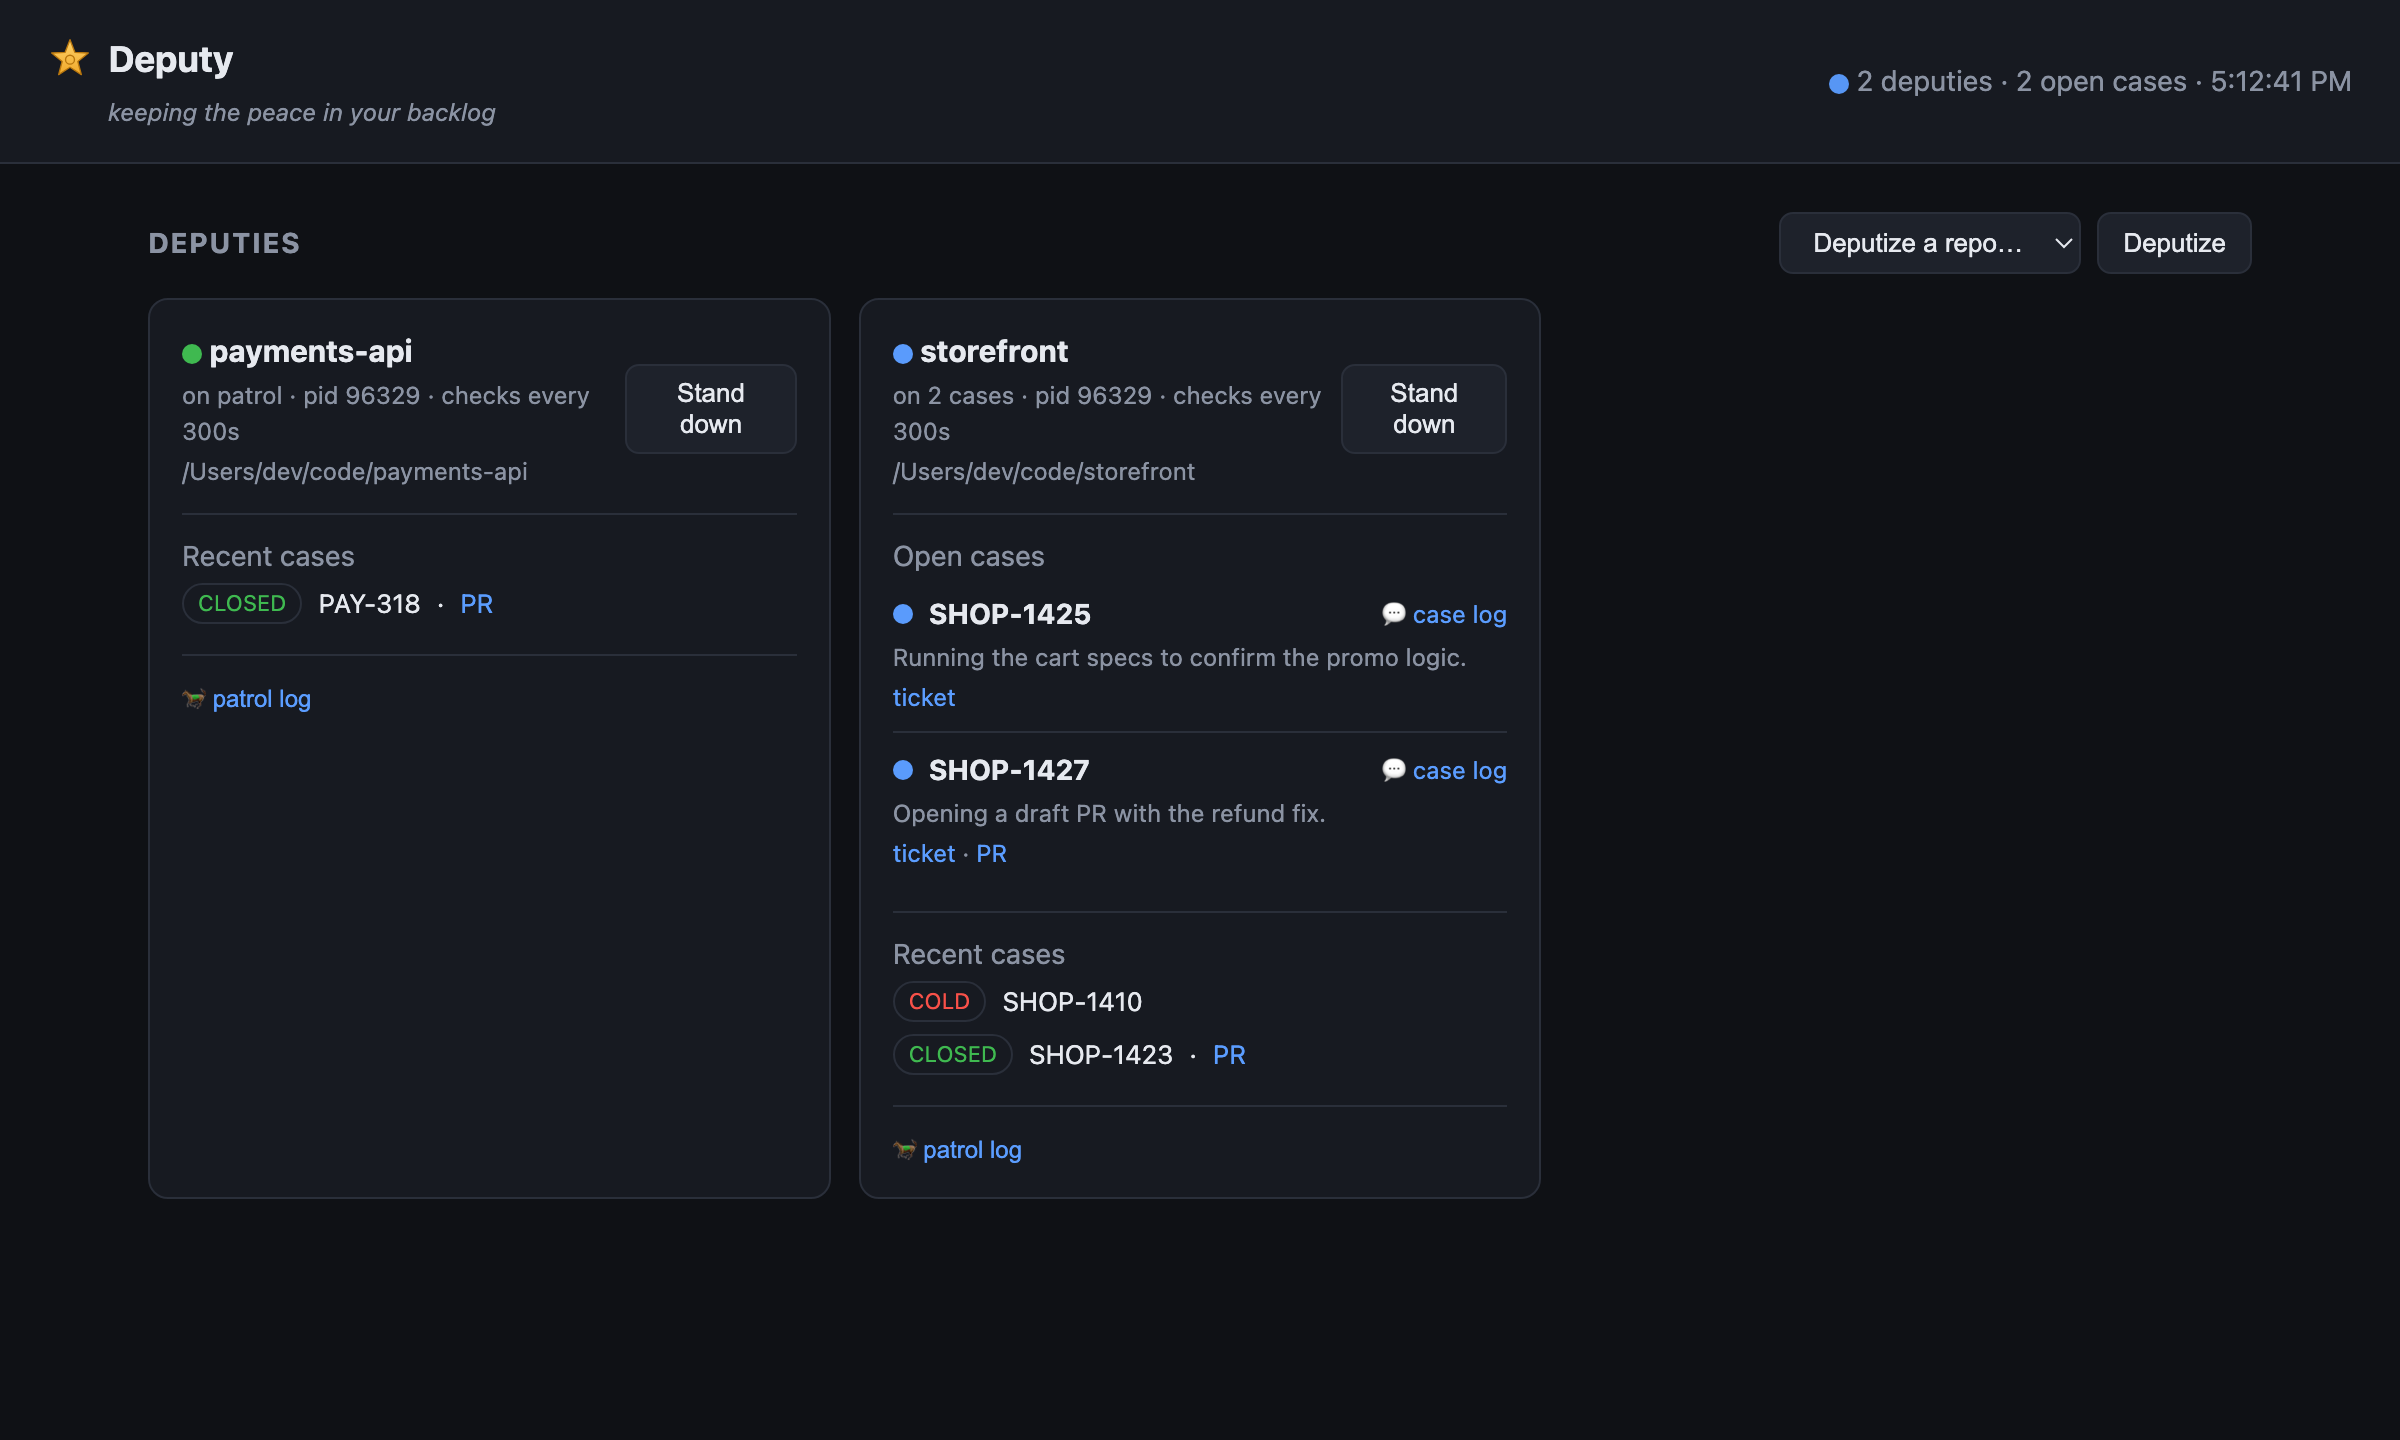
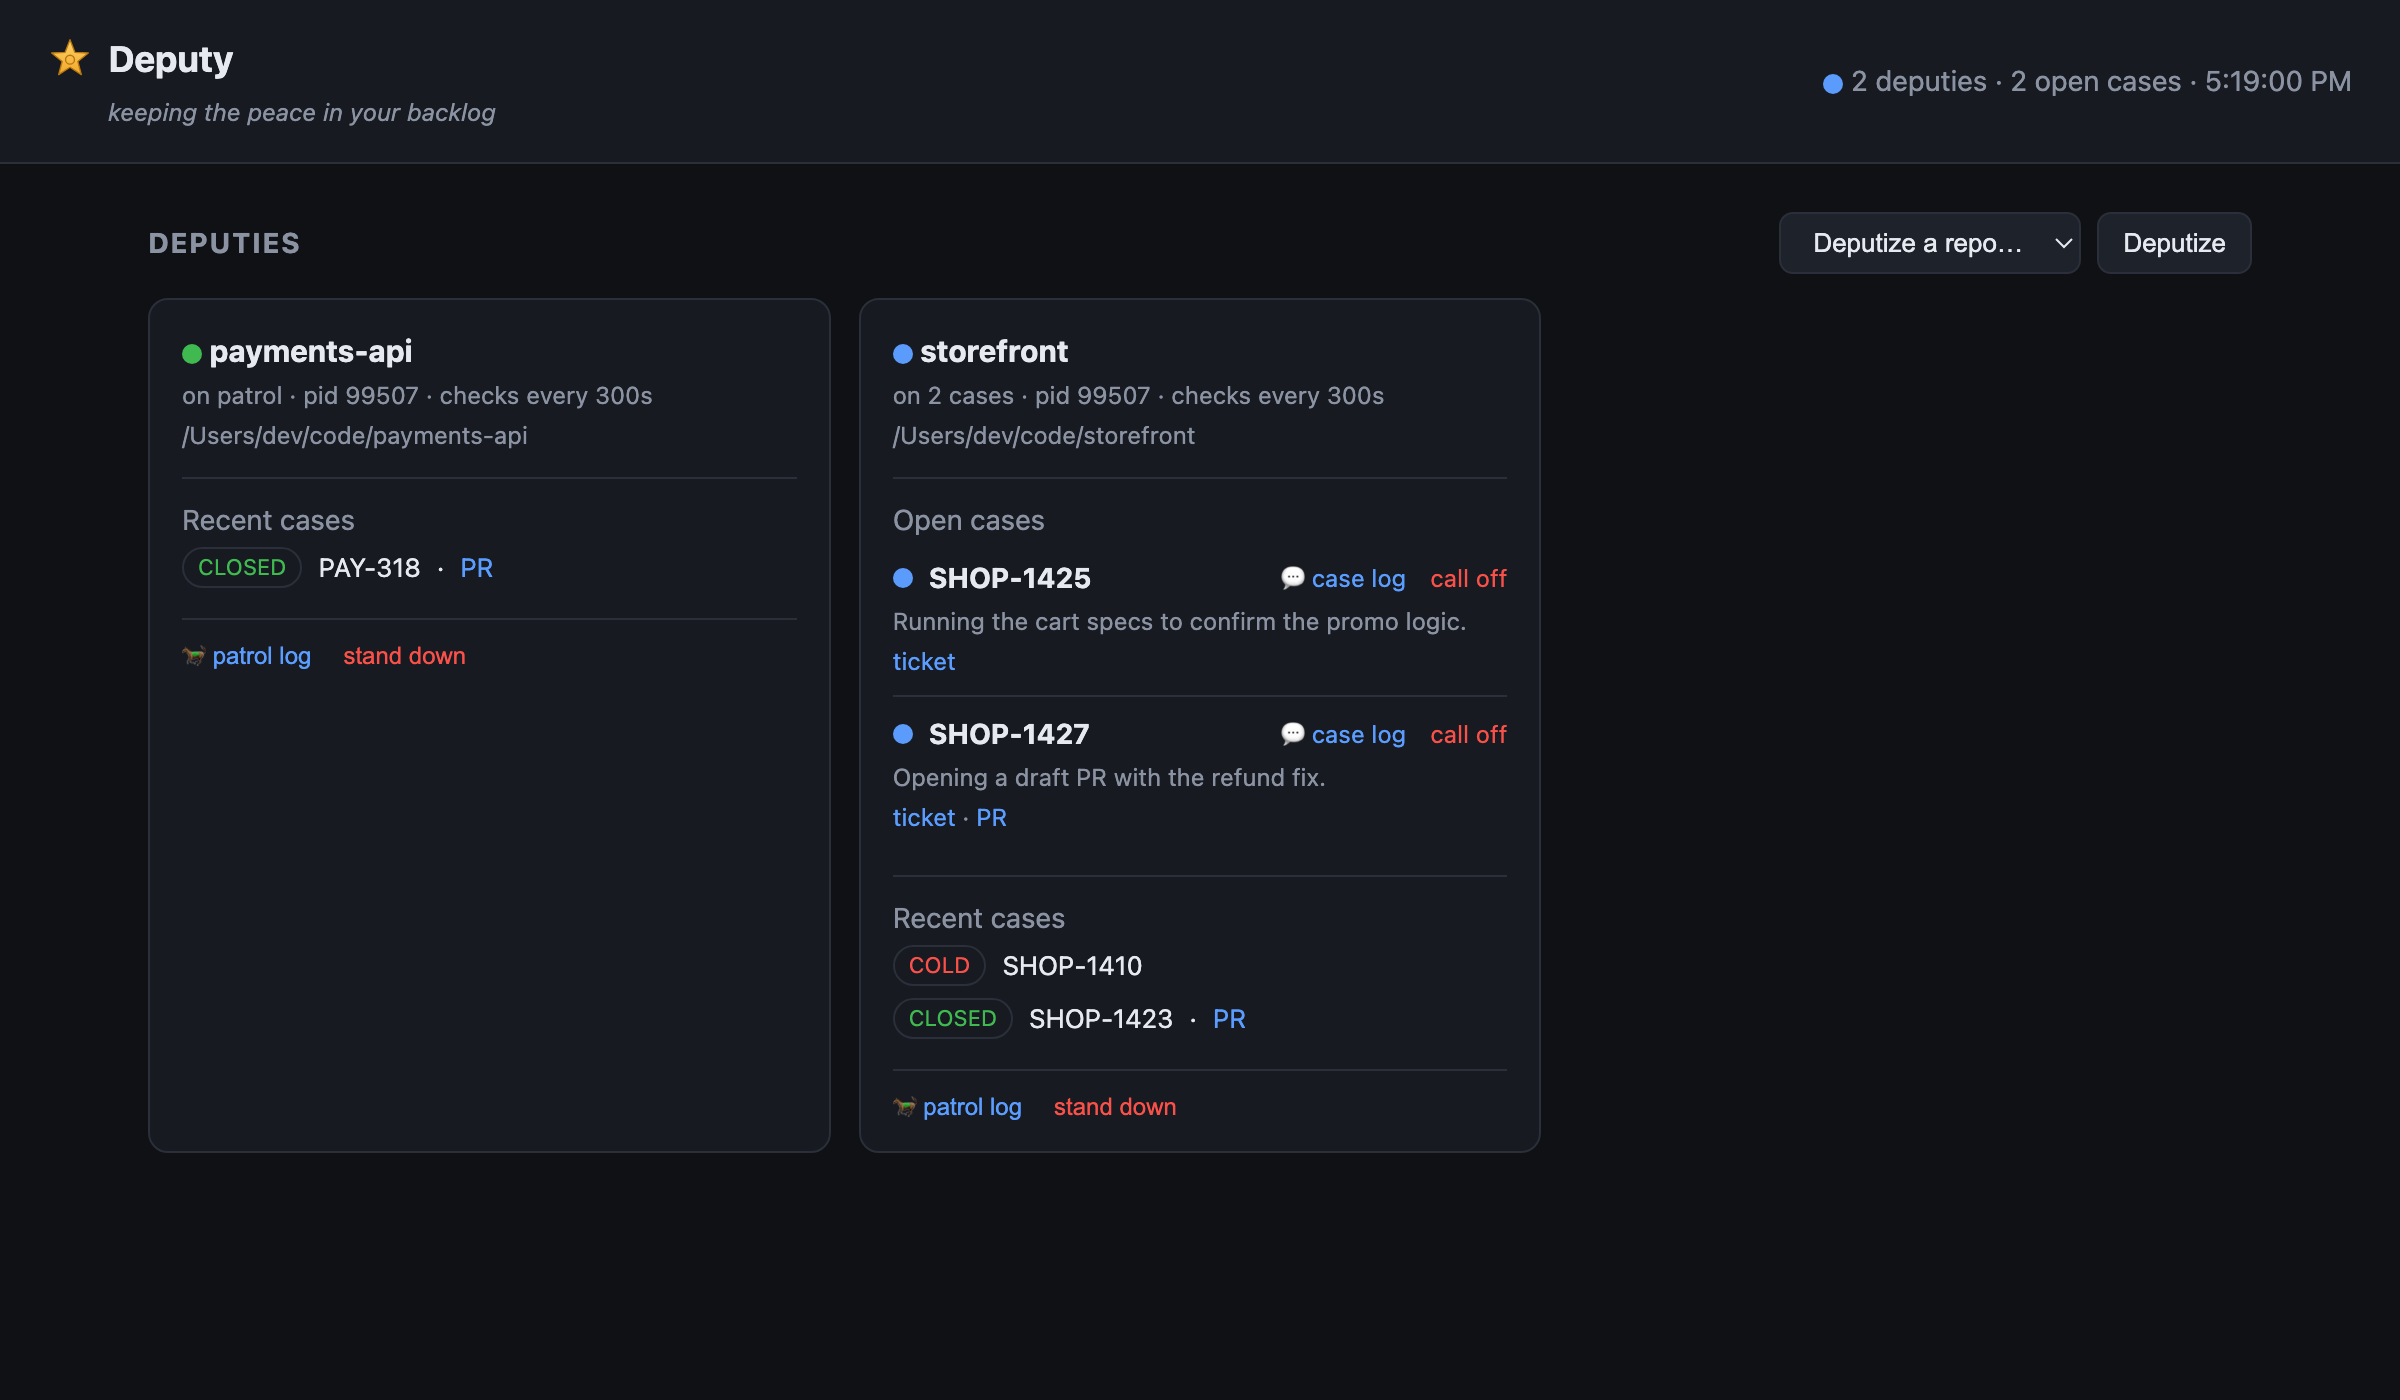
feat(ui): per-case "call off" (stop-ticket) + move "stand down" to footer; README
- Each open case gets a red "call off" action (POST /api/stop-case -> stop-ticket).
- Deputy "stand down" moved out of the header into the footer row beside patrol log.
- README: fix stale wording, document live sessions / endpoints / call-off,
  prerequisites + key config knobs; refreshed screenshot.

diff --git a/server/public/app.js b/server/public/app.js
@@ -24,12 +24,18 @@ function caseRow(c) {
   ].filter(Boolean).join(' · ');
   row.innerHTML = `
     <div class="case-head"><span class="dot busy"></span> <b>${esc(c.ticket)}</b>
-      <span class="linklike">💬 case log</span></div>
+      <span class="case-actions"><span class="linklike">💬 case log</span><span class="linklike danger" data-stop>call off</span></span></div>
     <div class="sub">${esc(c.phase || '').slice(0, 160)}</div>
     ${links ? `<div class="sub">${links}</div>` : ''}`;
   row.style.cursor = 'pointer';
   row.onclick = () => openLog({ ticket: c.ticket }, `${c.ticket} · case log`);
   row.querySelectorAll('a').forEach((a) => a.addEventListener('click', (e) => e.stopPropagation()));
+  row.querySelector('[data-stop]').onclick = async (e) => {
+    e.stopPropagation();
+    if (!confirm(`Call off ${c.ticket}? (cancels the agent and drops its worktree)`)) return;
+    await api('/api/stop-case', { method: 'POST', headers: { 'Content-Type': 'application/json' }, body: JSON.stringify({ ticket: c.ticket }) });
+    refresh();
+  };
   return row;
 }
 
@@ -48,14 +54,6 @@ function renderDeputies(daemons, orphans) {
         <div class="sub">${status}${d.running ? ` · pid ${d.pid} · checks every ${d.interval}s` : ''}</div>
         <div class="sub">${esc(d.repoDir || '')}</div>
       </div>`));
-    const actions = el('div');
-    if (d.running) {
-      const stop = el('button', null, 'Stand down');
-      stop.onclick = async () => { if (!confirm(`Stand ${d.project} down?`)) return; stop.disabled = true; await api('/api/stop', { method: 'POST', headers: { 'Content-Type': 'application/json' }, body: JSON.stringify({ project: d.project }) }); refresh(); };
-      actions.append(stop);
-    }
-    card.querySelector('.row').append(actions);
-
     if (cases.length) {
       const sec = el('div', 'recent'); sec.append(el('div', 'muted', 'Open cases'));
       for (const c of cases) sec.append(caseRow(c));
@@ -71,10 +69,16 @@ function renderDeputies(daemons, orphans) {
       }
       card.append(sec);
     }
-    const footer = el('div', 'recent');
+    const footer = el('div', 'recent actions-row');
     const pl = el('button', 'linklike', '🐎 patrol log');
     pl.onclick = () => openLog({ daemon: d.project }, `${d.project} · patrol log`);
-    footer.append(pl); card.append(footer);
+    footer.append(pl);
+    if (d.running) {
+      const stop = el('button', 'linklike danger', 'stand down');
+      stop.onclick = async () => { if (!confirm(`Stand ${d.project} down?`)) return; await api('/api/stop', { method: 'POST', headers: { 'Content-Type': 'application/json' }, body: JSON.stringify({ project: d.project }) }); refresh(); };
+      footer.append(stop);
+    }
+    card.append(footer);
     wrap.append(card);
   }
   if (orphans?.length) {

diff --git a/server/public/styles.css b/server/public/styles.css
@@ -39,7 +39,9 @@ section { margin-bottom: 32px; }
 .case:last-child { border-bottom: none; }
 .case-head { display: flex; align-items: center; gap: 8px; }
 .case-head b { font-size: 14px; }
-.case-head .linklike { margin-left: auto; }
+.case-head .case-actions { margin-left: auto; display: flex; gap: 12px; }
+.danger, .linklike.danger { color: var(--fail); }
+.actions-row { display: flex; gap: 16px; align-items: center; }
 .badge { font-size: 11px; padding: 1px 7px; border-radius: 999px; border: 1px solid var(--border); }
 .badge.ok { color: var(--ok); } .badge.fail { color: var(--fail); } .badge.warn { color: var(--warn); }
 

diff --git a/README.md b/README.md
@@ -74,17 +74,16 @@ bin/daemon continue <TICKET> "also handle the empty state"   # follow-up on its 
 bin/daemon stop-ticket <TICKET>                              # cancel one in-flight job
 ```
 
-## Follow-ups & CI fixes (no comments)
+## Talking to deputies (no PR/Jira comments)
 
-Once a ticket has a PR, you can nudge it without touching GitHub/Jira:
-
-- **Dashboard:** type a ticket + instruction in the "tell deputy…" box, hit Send.
-- **CLI:** `deputy continue <TICKET> "…"`.
-
-Either way the instruction is queued; deputy re-checks-out that PR's branch, runs
-the agent with your note, and pushes to the same PR. **Red CI is handled on its
-own** — no need to ask. (These run follow-ups on an existing PR; they don't steer
-an agent that's mid-implementation.)
+- **Live chat:** on the dashboard, open a case and type in the reply box — the
+  message streams straight into that running agent's session (full context kept),
+  and you watch it think and respond live. **Call off** cancels a case.
+- **Follow-up on an existing PR:** `deputy continue <TICKET> "…"` (or the UI)
+  re-checks-out that PR's branch, runs the agent with your note, and pushes to the
+  same PR.
+- **CI is handled automatically** — when a deputy's PR goes red, it reads the failing
+  checks + annotations and pushes a fix without being asked.
 
 ## Trackers
 
@@ -119,10 +118,14 @@ the agent, and the dashboard are all tracker-agnostic.
 - The agent runs with an **in-process MCP server** (`mcp__tracker__*`) so it can
   read the item and mark it done through whatever tracker is configured — it
   never learns the backend.
-- The dashboard and the control API are decoupled: the API reads daemon state
-  from `/tmp` and shells out to `bin/daemon`, so any front-end (web, a macOS menu
-  bar widget, a CLI) can reuse the same endpoints:
-  `/api/status`, `/api/start`, `/api/stop`, `/api/log`, `/api/continue`.
+- **Live sessions:** each case's agent runs with a per-case input channel
+  (`DEPUTY_INPUT`, set by the daemon). The dashboard reply box / `/api/say` stream
+  messages into the open session; a `SIGUSR1` nudge makes follow-ups fire instantly
+  instead of waiting for the poll.
+- The dashboard and control API are decoupled: the API reads daemon state from
+  `/tmp` and shells out to `bin/daemon`, so any front-end (web, a macOS menu bar
+  widget, a CLI) can reuse the same endpoints: `/api/status`, `/api/start`,
+  `/api/stop`, `/api/stop-case`, `/api/log`, `/api/continue`, `/api/say`.
 
 ## Layout
 
@@ -138,7 +141,15 @@ server/public/               the dashboard (vanilla JS, no build step)
 
 ## Configuration
 
+Needs `node` ≥18, `git`, `gh` (authenticated), and `jq`. The daemon installs its
+own agent deps into `<repo>_deputy/` on first start.
+
 Everything is driven by `DEPUTY_*` variables in `.env` — see
-[`.env.example`](.env.example) for the full list. Required: tracker credentials
-and a GitHub token. One daemon runs per repo; list repo paths in `DEPUTY_REPOS`
-to start them from the dashboard.
+[`.env.example`](.env.example) for the full list. Required: tracker credentials +
+a GitHub token. Notable knobs:
+
+- `DEPUTY_TRACKER` — `jira` | `github`
+- `DEPUTY_REPOS` — repo paths the dashboard can deputize (one daemon per repo)
+- `DEPUTY_WORKTREE_SETUP` — command run in each fresh worktree, e.g. `bundle install && yarn install` (so tests/hooks pass)
+- `DEPUTY_AGENT_CMD` — the agent command; defaults to the bundled Claude runner, swap for any other
+- `DEPUTY_PR_LABEL` — label put on deputy PRs (also how CI auto-fix finds them)
